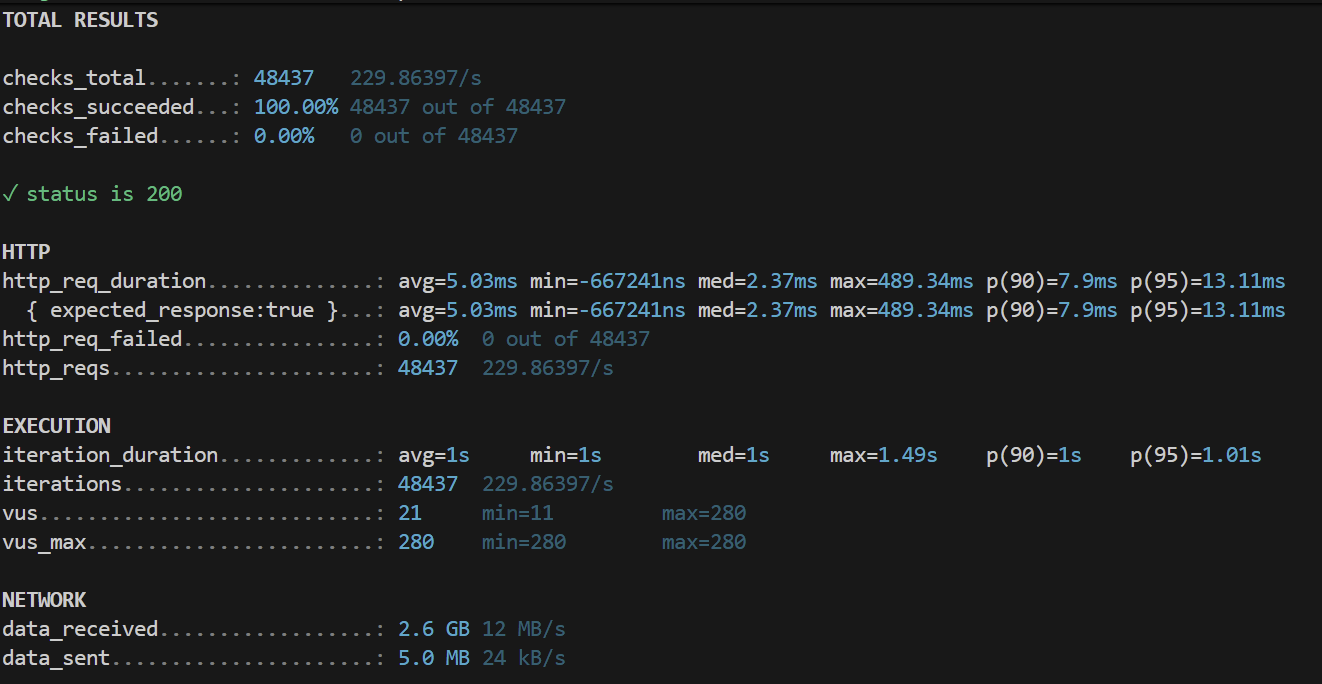
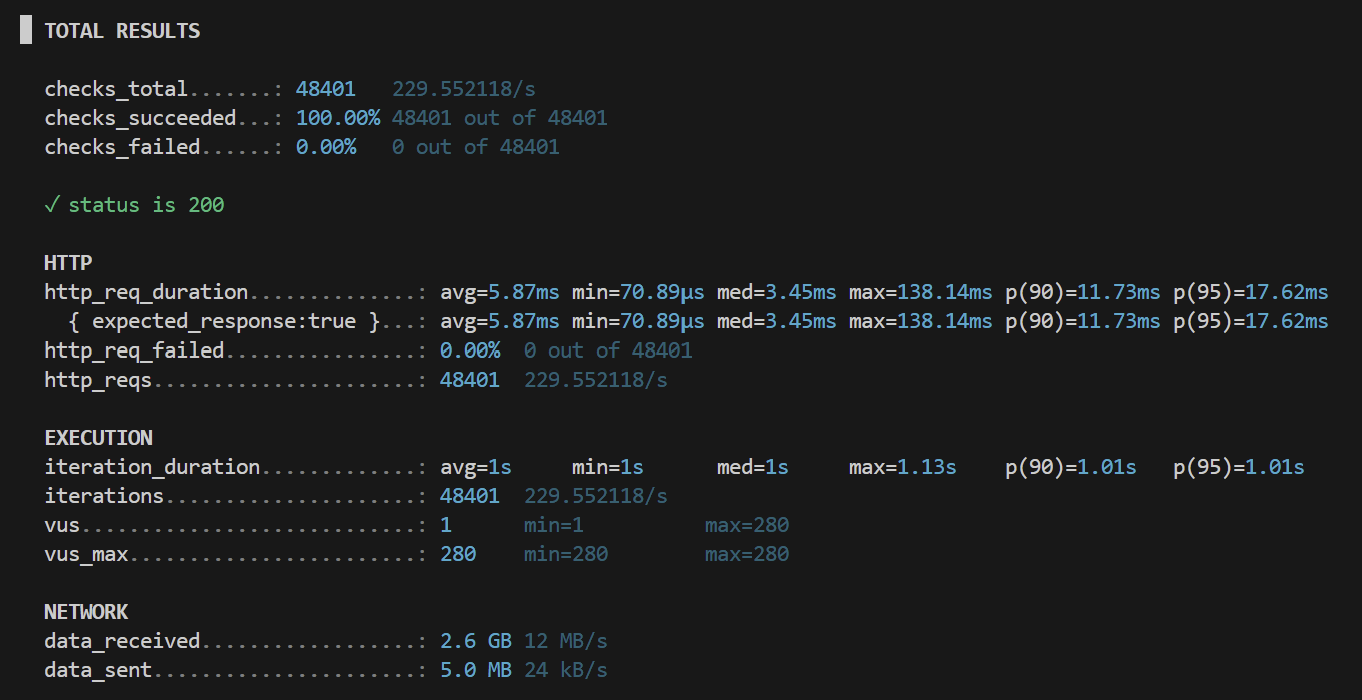
ipf

diff --git a/experiments/03-cache-implement/README.md b/experiments/03-cache-implement/README.md
@@ -10,13 +10,13 @@
 
 | 구분 | Redis 도입 전 | Redis 도입 후 |
 |---|---:|---:|
-| 총 요청 수 | 39,540 | 48,437 |
-| 처리량 (req/s) | 187.68 | 229.86 |
-| 평균 응답시간 (avg) | 231.35ms | 5.03ms |
-| 중앙값 (med) | 221.73ms | 2.37ms |
-| p90 | 422.25ms | 7.9ms |
-| p95 | 488.6ms | 13.11ms |
-| max | 1s | 489.34ms |
+| 총 요청 수 | 39,540 | 48,401 |
+| 처리량 (req/s) | 187.68 | 229.55 |
+| 평균 응답시간 (avg) | 231.35ms | 5.87ms |
+| 중앙값 (med) | 221.73ms | 3.45ms |
+| p90 | 422.25ms | 11.73ms |
+| p95 | 488.6ms | 17.62ms |
+| max | 1s | 138.14ms |
 
 **Redis 도입 전**
 ![redis 도입 전 k6 결과](images/redis_전.png)
@@ -24,7 +24,7 @@
 **Redis 도입 후**
 ![redis 도입 후 k6 결과](images/redis_후.png)
 
-평균 응답시간이 **231.35ms → 5.03ms로 약 46배** 감소했고, 처리량은 187.68 → 229.86 req/s로 증가했다. 실패율은 두 경우 모두 0%.
+평균 응답시간이 **231.35ms → 5.87ms로 약 39배** 감소했고, 처리량은 187.68 → 229.55 req/s로 증가했다. 실패율은 두 경우 모두 0%.
 
 ## 2. 첫 번째 가설: "디스크 I/O가 줄어든 것 아닐까?"
 